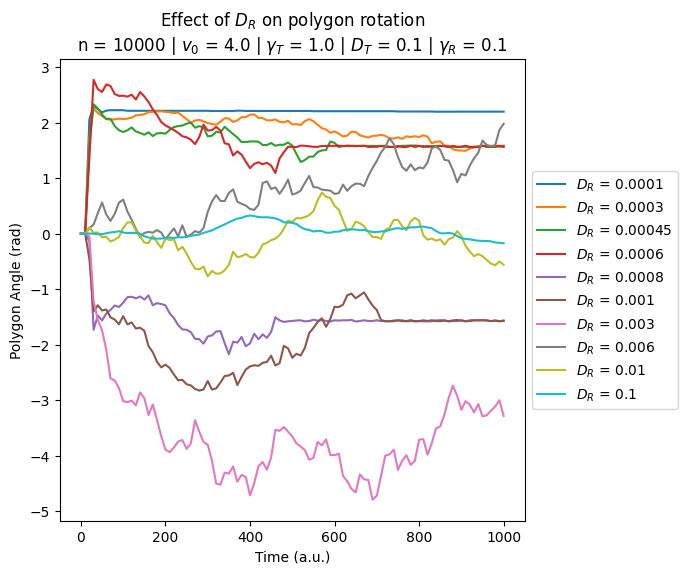
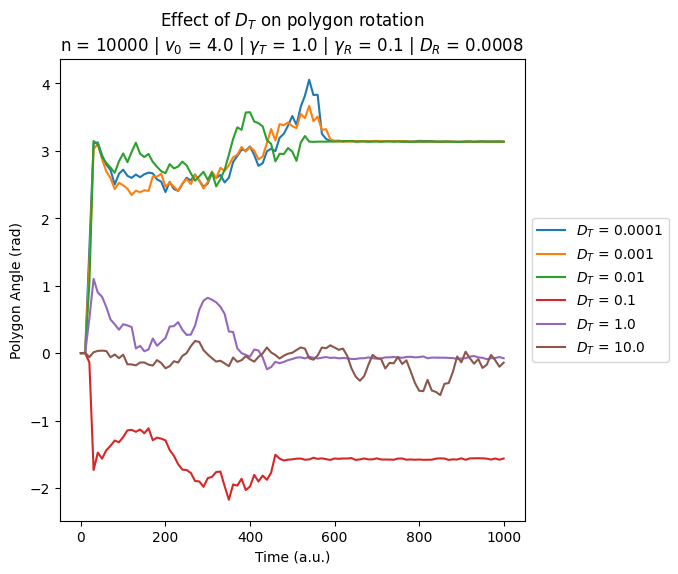
translation diffusion figure

diff --git a/src/run_sim.py b/src/run_sim.py
@@ -395,14 +395,14 @@ def main():
     angle_hist_fig, angle_hist_ax = plt.subplots(figsize=(6,6))
     com_hist_fig, com_hist_ax = plt.subplots(figsize=(6,6))
 
-    for rotation_diffusion in [1e-4,3e-4,4.5e-4,6e-4,8e-4,1e-3,3e-3,6e-3,1e-2,1e-1]:
+    for translation_diffusion in [1e-4,1e-3,1e-2,1e-1,1e0, 1e1]:
         sim_params = {
             "dt": 0.01,
             "num_particles": 10000,
             "total_time": 1000.,
             "do_animation": True,
             "return_history": True,
-            "rotation_diffusion": rotation_diffusion,
+            "translation_diffusion": translation_diffusion,
             "use_jit": True,
             "timesteps_per_frame": 1000
             }
@@ -411,8 +411,8 @@ def main():
 
         times = jnp.linspace(0,sim_params["total_time"],len(r_history))
 
-        param_name = r"$D_R$"
-        scan_param_title = param_name + f" = {sim_params['rotation_diffusion']}"
+        param_name = r"$D_T$"
+        scan_param_title = param_name + f" = {sim_params['translation_diffusion']}"
 
         angle_hist_ax.set_title(f"Effect of {param_name} on polygon rotation\n"+get_parameter_report(param_name))
         angle_hist_ax.set_xlabel("Time (a.u.)")

diff --git a/src/constants.py b/src/constants.py
@@ -9,7 +9,7 @@ DEFAULT_V0 = 4.
 DEFAULT_TRANSLATION_GAMMA = 1.
 DEFAULT_TRANSLATION_DIFFUSION = 0.1
 DEFAULT_ROTATION_GAMMA = 0.1
-DEFAULT_ROTATION_DIFFUSION = 1e-3
+DEFAULT_ROTATION_DIFFUSION = 0.0008
 DEFAULT_OMEGA = 0.
 DEFAULT_TUMBLE_RATE = 1e-4
 DEFAULT_WALL_GAMMA = 250.
